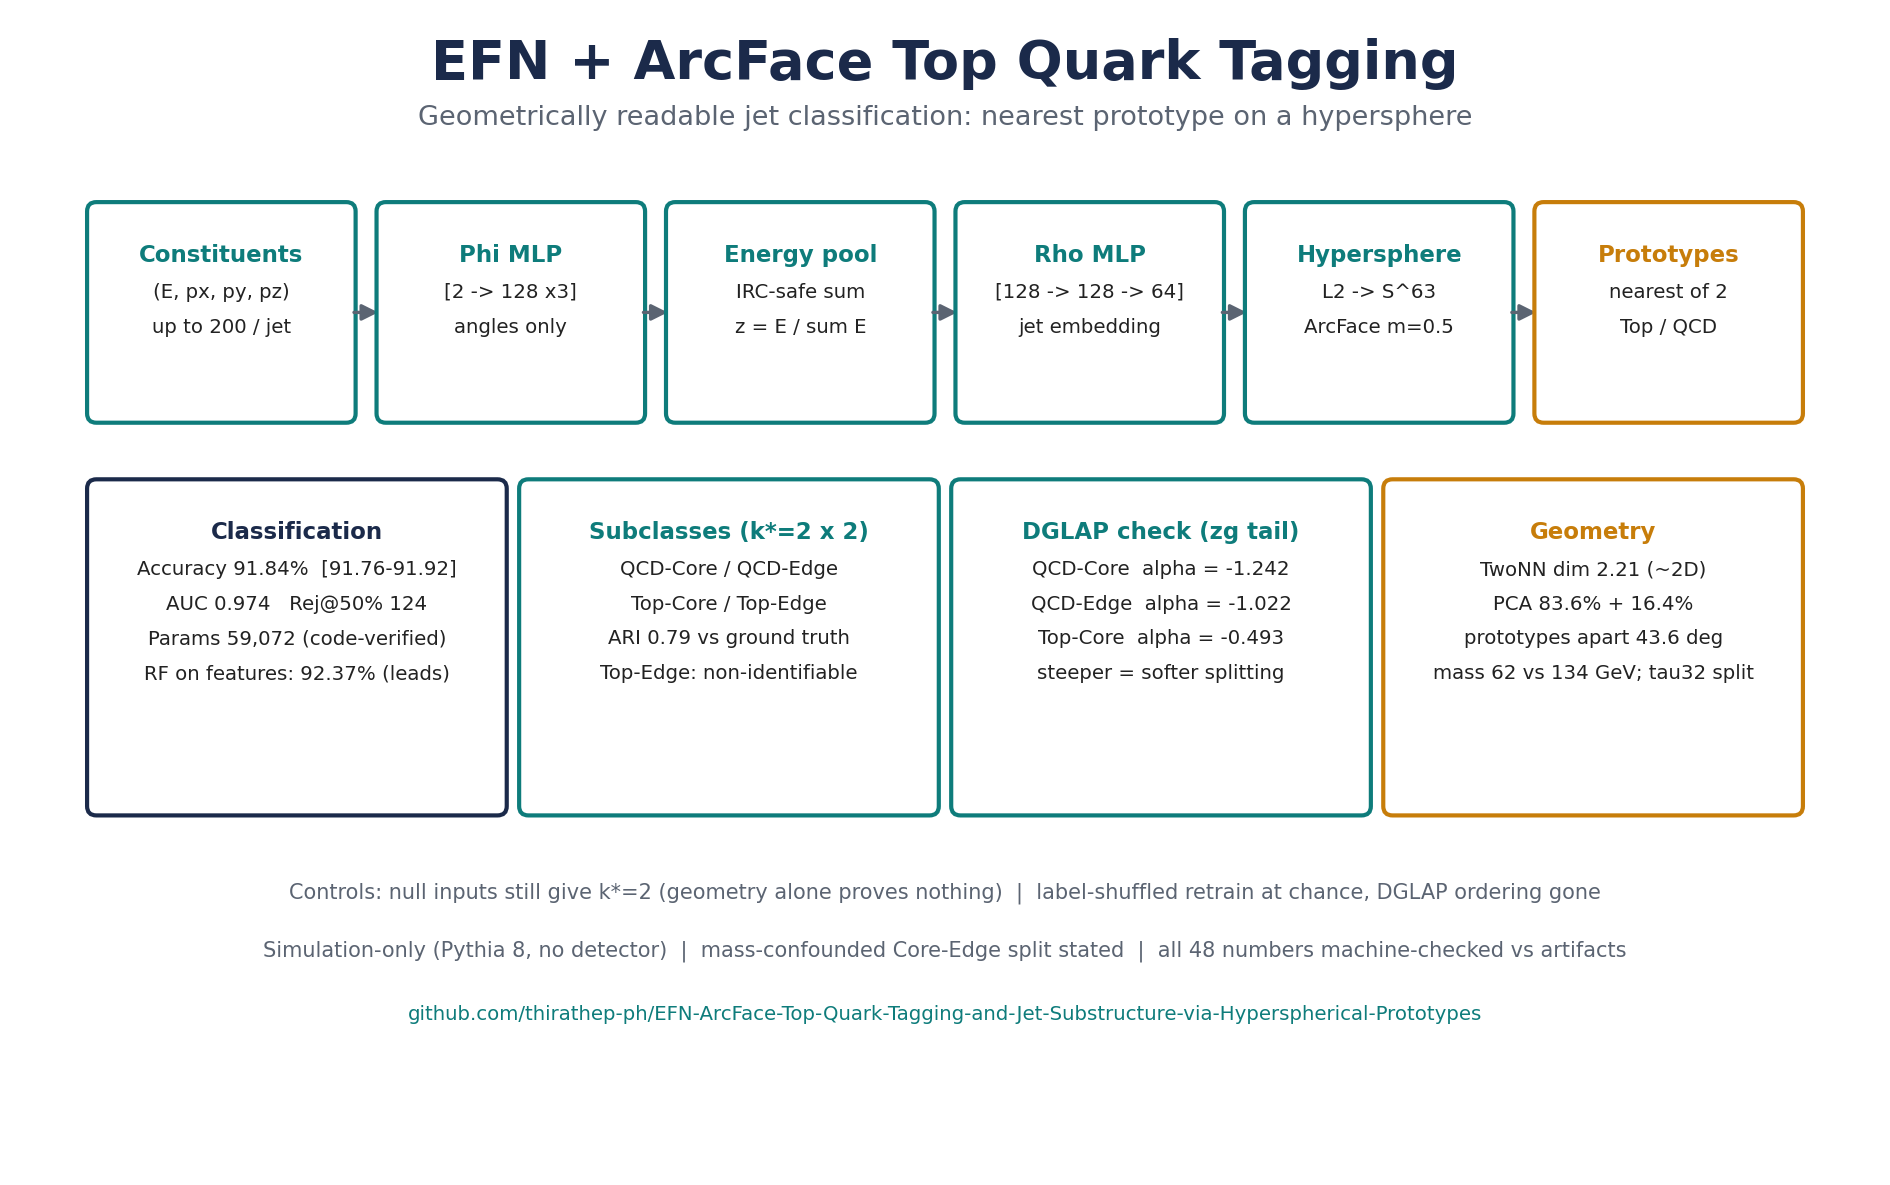
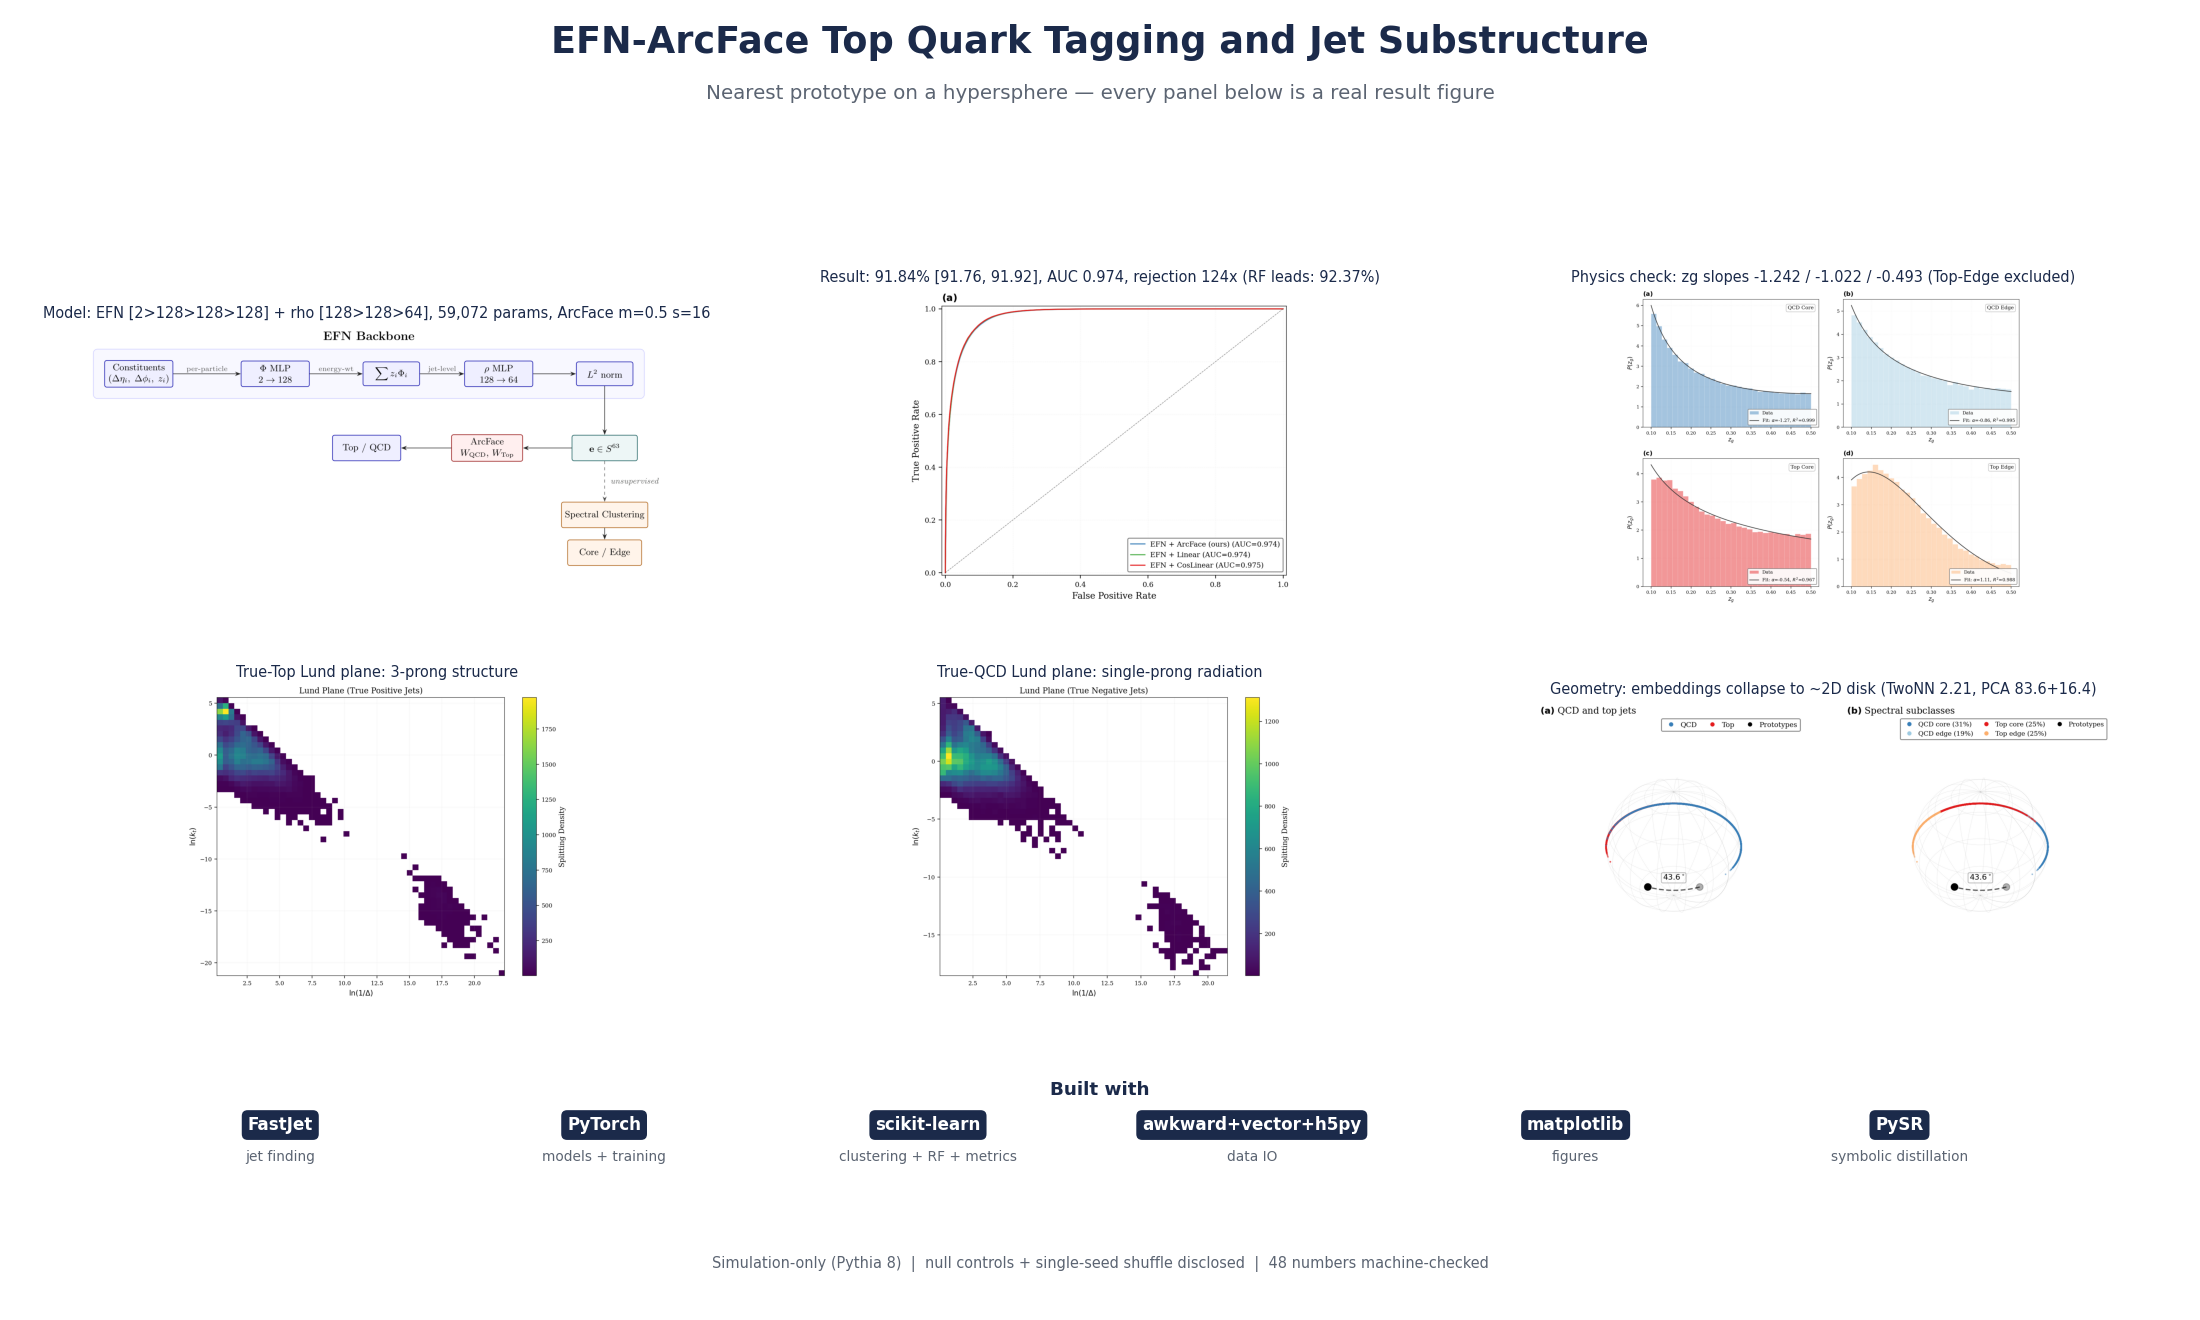
infographic v2: real result figures + tool stack, no drawn boxes

diff --git a/scripts/make_infographic.py b/scripts/make_infographic.py
@@ -1,120 +1,85 @@
-"""README hero infographic: EFN+ArcFace pipeline + key results.
+"""README hero infographic v2: REAL experiment figures + tool stack.
 
-Reads values from experiments/numbers.json (SSOT) so the figure can never
-drift from the paper. Output: docs/infographic.png
+No drawn boxes pretending to be results: every panel is a thumbnail of an
+actual figure from docs/figures/ (same files linked in docs/RESULTS.md).
+Tool chips name the software used at each pipeline stage (from
+requirements.txt + code imports). Output: docs/infographic.png
 """
-import json
 from pathlib import Path
 
 import matplotlib
 matplotlib.use("Agg")
 import matplotlib.pyplot as plt
-from matplotlib.patches import FancyBboxPatch, FancyArrowPatch
+from matplotlib import image as mpimg
 
 ROOT = Path(__file__).resolve().parent.parent
-NUMBERS = {e["name"]: e["expect"] for e in
-           json.load(open(ROOT / "experiments" / "numbers.json"))["entries"]
-           if "expect" in e}
+FIG = ROOT / "docs" / "figures"
 OUT = ROOT / "docs" / "infographic.png"
 
+NAVY, GREY = "#1b2a4a", "#5b6472"
 
-def val(key):
-    return NUMBERS[key]
-
-
-NAVY, TEAL, AMBER, GREY, LIGHT = "#1b2a4a", "#0e7c7b", "#c77d0a", "#5b6472", "#eef1f6"
-
-fig, ax = plt.subplots(figsize=(16, 10))
-ax.set_xlim(0, 16)
-ax.set_ylim(0, 10)
-ax.axis("off")
-fig.patch.set_facecolor("white")
-
-# ---- header ----
-ax.text(8, 9.45, "EFN + ArcFace Top Quark Tagging", ha="center", fontsize=26,
-        fontweight="bold", color=NAVY)
-ax.text(8, 9.05, "Geometrically readable jet classification: nearest prototype on a hypersphere",
-        ha="center", fontsize=13, color=GREY)
-
-
-def box(x, y, w, h, title, lines, color=NAVY, tsize=11):
-    b = FancyBboxPatch((x, y), w, h, boxstyle="round,pad=0.08",
-                       facecolor="white", edgecolor=color, linewidth=2)
-    ax.add_patch(b)
-    ax.text(x + w / 2, y + h - 0.28, title, ha="center", va="top", fontsize=tsize,
-            fontweight="bold", color=color)
-    for i, ln in enumerate(lines):
-        ax.text(x + w / 2, y + h - 0.62 - 0.30 * i, ln, ha="center", va="top",
-                fontsize=9.5, color="#222222")
-
-
-def arrow(x1, y1, x2, y2):
-    ax.add_patch(FancyArrowPatch((x1, y1), (x2, y2), arrowstyle="-|>",
-                                 mutation_scale=16, color=GREY, linewidth=1.6))
-
-
-# ---- pipeline row ----
-py, ph = 6.55, 1.75
-steps = [
-    ("Constituents", ["(E, px, py, pz)", "up to 200 / jet"]),
-    ("Phi MLP", ["[2 -> 128 x3]", "angles only"]),
-    ("Energy pool", ["IRC-safe sum", "z = E / sum E"]),
-    ("Rho MLP", ["[128 -> 128 -> 64]", "jet embedding"]),
-    ("Hypersphere", ["L2 -> S^63", "ArcFace m=0.5"]),
-    ("Prototypes", ["nearest of 2", "Top / QCD"]),
+# (file, caption) — all real figures, captions carry the numbers
+PANELS = [
+    ("architecture_schematic.png",
+     "Model: EFN [2>128>128>128] + rho [128>128>64], 59,072 params, ArcFace m=0.5 s=16"),
+    ("final_roc_curves.png",
+     "Result: 91.84% [91.76, 91.92], AUC 0.974, rejection 124x (RF leads: 92.37%)"),
+    ("dglap_fit.png",
+     "Physics check: zg slopes -1.242 / -1.022 / -0.493 (Top-Edge excluded)"),
+    ("lund_status_tp.png",
+     "True-Top Lund plane: 3-prong structure"),
+    ("lund_status_tn.png",
+     "True-QCD Lund plane: single-prong radiation"),
+    ("hypersphere_3d.png",
+     "Geometry: embeddings collapse to ~2D disk (TwoNN 2.21, PCA 83.6+16.4)"),
 ]
-sw = 2.15
-gap = (16 - 2 * 0.7 - len(steps) * sw) / (len(steps) - 1)
-for i, (t, ln) in enumerate(steps):
-    x = 0.7 + i * (sw + gap)
-    box(x, py, sw, ph, t, ln, color=TEAL if i < 5 else AMBER)
-    if i < len(steps) - 1:
-        arrow(x + sw + 0.03, py + ph / 2, x + sw + gap - 0.03, py + ph / 2)
 
-# ---- results row ----
-ry, rh = 3.15, 2.75
-cw = 3.45
-gx = (16 - 2 * 0.7 - 4 * cw) / 3
-acc = val("arcface_acc_s16_pct")
-aci = (val("bootstrap_ci_lower_pct"), val("bootstrap_ci_upper_pct"))
-box(0.7, ry, cw, rh, "Classification", [
-    f"Accuracy {acc:.2f}%  [{aci[0]:.2f}-{aci[1]:.2f}]",
-    f"AUC {val('auc_arcface'):.3f}   Rej@50% {val('rejection_tpr50'):.0f}",
-    f"Params 59,072 (code-verified)",
-    f"RF on features: {val('rf_acc_pct'):.2f}% (leads)",
-], color=NAVY)
-x = 0.7 + cw + gx
-box(x, ry, cw, rh, "Subclasses (k*=2 x 2)", [
-    "QCD-Core / QCD-Edge",
-    "Top-Core / Top-Edge",
-    "ARI 0.79 vs ground truth",
-    "Top-Edge: non-identifiable",
-], color=TEAL)
-x += cw + gx
-box(x, ry, cw, rh, "DGLAP check (zg tail)", [
-    f"QCD-Core  alpha = {val('dglap_alpha_qcd_core'):.3f}",
-    f"QCD-Edge  alpha = {val('dglap_alpha_qcd_edge'):.3f}",
-    f"Top-Core  alpha = {val('dglap_alpha_top_core'):.3f}",
-    "steeper = softer splitting",
-], color=TEAL)
-x += cw + gx
-box(x, ry, cw, rh, "Geometry", [
-    f"TwoNN dim {val('twonn_arcface'):.2f} (~2D)",
-    f"PCA {val('pca_pc1_pct'):.1f}% + {val('pca_pc2_pct'):.1f}%",
-    f"prototypes apart {val('prototype_distance_deg'):.1f} deg",
-    f"mass {val('qcd_mass_core'):.0f} vs {val('qcd_mass_edge'):.0f} GeV; tau32 split",
-], color=AMBER)
+TOOLS = [
+    ("FastJet", "jet finding"),
+    ("PyTorch", "models + training"),
+    ("scikit-learn", "clustering + RF + metrics"),
+    ("awkward+vector+h5py", "data IO"),
+    ("matplotlib", "figures"),
+    ("PySR", "symbolic distillation"),
+]
 
-# ---- honesty footer ----
-ax.text(8, 2.35, "Controls: null inputs still give k*=2 (geometry alone proves nothing)  |  "
-        "label-shuffled retrain at chance, DGLAP ordering gone",
-        ha="center", fontsize=10, color=GREY)
-ax.text(8, 1.85, "Simulation-only (Pythia 8, no detector)  |  mass-confounded Core-Edge split stated  |  "
-        "all 48 numbers machine-checked vs artifacts",
-        ha="center", fontsize=10, color=GREY)
-ax.text(8, 1.30, "github.com/thirathep-ph/EFN-ArcFace-Top-Quark-Tagging-and-Jet-Substructure-via-Hyperspherical-Prototypes",
-        ha="center", fontsize=9.5, color=TEAL)
+fig = plt.figure(figsize=(20, 12))
+fig.patch.set_facecolor("white")
+gs = fig.add_gridspec(5, 3, height_ratios=[0.55, 2.2, 2.2, 0.65, 0.22],
+                      hspace=0.45, wspace=0.25,
+                      left=0.04, right=0.96, top=0.90, bottom=0.03)
 
-OUT.parent.mkdir(exist_ok=True)
-fig.savefig(OUT, dpi=150, bbox_inches="tight")
+fig.text(0.5, 0.96,
+         "EFN-ArcFace Top Quark Tagging and Jet Substructure",
+         ha="center", fontsize=24, fontweight="bold", color=NAVY)
+fig.text(0.5, 0.925,
+         "Nearest prototype on a hypersphere — every panel below is a real result figure",
+         ha="center", fontsize=13, color=GREY)
+
+for i, (fname, cap) in enumerate(PANELS):
+    ax = fig.add_subplot(gs[1 + i // 3, i % 3])
+    ax.imshow(mpimg.imread(FIG / fname))
+    ax.axis("off")
+    ax.set_title(cap, fontsize=9.5, color=NAVY, pad=4)
+
+# tool stack row
+tax = fig.add_subplot(gs[3, :])
+tax.axis("off")
+tax.set_xlim(0, 1)
+tax.text(0.5, 0.82, "Built with", ha="center", fontsize=12,
+         fontweight="bold", color=NAVY, transform=tax.transAxes)
+for i, (tool, use) in enumerate(TOOLS):
+    x = 0.03 + i * 0.16
+    tax.text(x + 0.065, 0.45, tool, ha="center", fontsize=11,
+             fontweight="bold", color="white",
+             bbox=dict(boxstyle="round,pad=0.35", fc=NAVY, ec="none"),
+             transform=tax.transAxes)
+    tax.text(x + 0.065, 0.12, use, ha="center", fontsize=9,
+             color=GREY, transform=tax.transAxes)
+fax = fig.add_subplot(gs[4, :])
+fax.axis("off")
+fax.text(0.5, 0.5, "Simulation-only (Pythia 8)  |  null controls + single-seed shuffle disclosed  |  48 numbers machine-checked",
+         ha="center", va="center", fontsize=9.5, color=GREY)
+
+fig.savefig(OUT, dpi=110)
 print("wrote", OUT, OUT.stat().st_size, "bytes")
